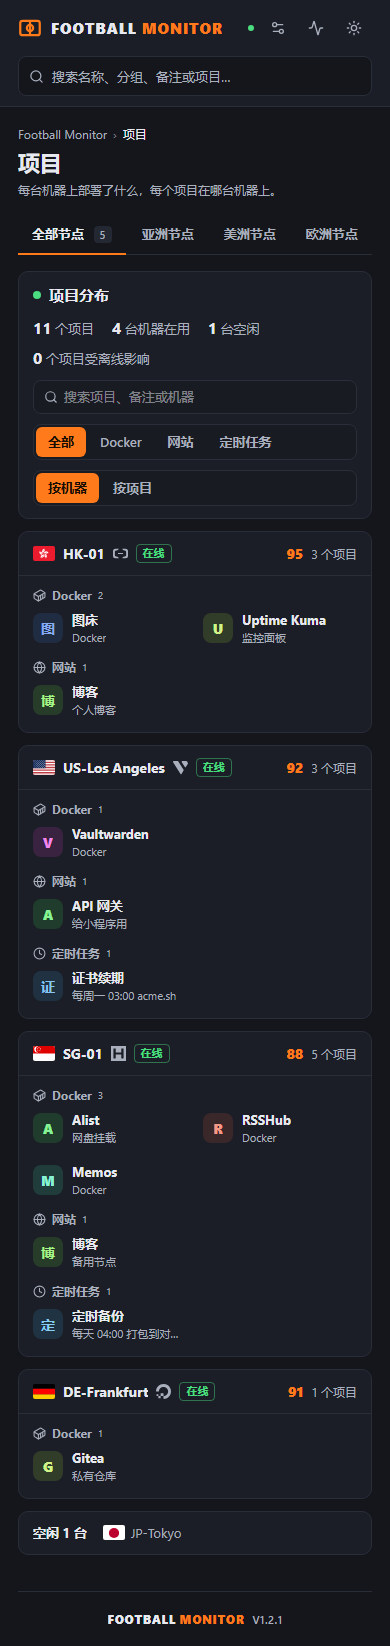
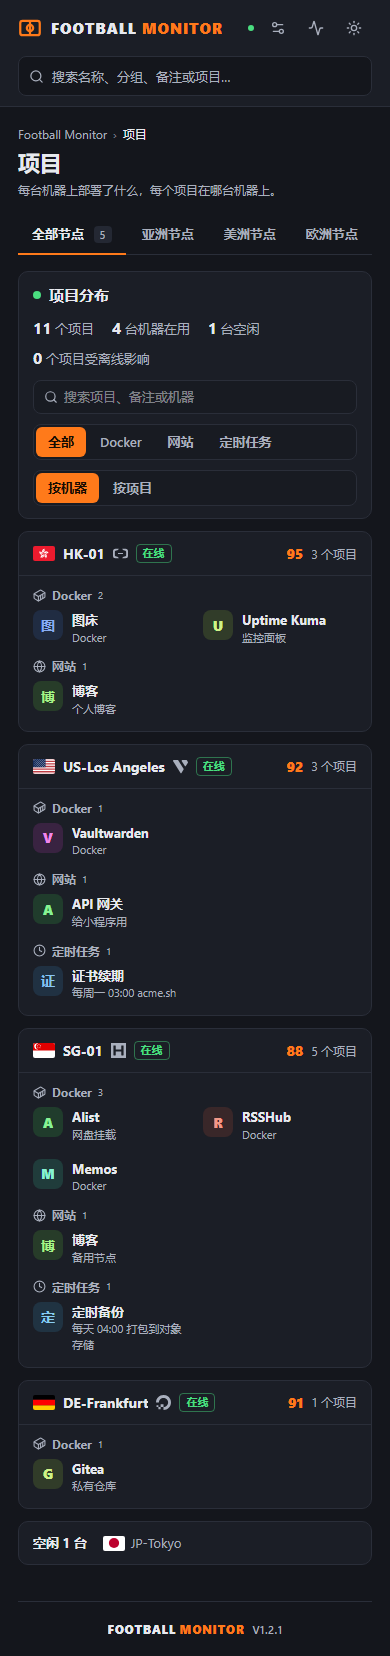
Tell the agent how to name a site and let project notes wrap

diff --git a/e2e/theme.spec.ts b/e2e/theme.spec.ts
@@ -732,6 +732,11 @@ test('projects page shows what runs where, by machine and by project, on desktop
   await page.locator('header .projects-link').click()
   await expect(page).toHaveURL(/\/projects$/)
   await expect(page.locator('.pj-machine')).toHaveCount(4)
+  // A note is read in full on a phone: it wraps instead of ending in an ellipsis.
+  const cut = await page
+    .locator('.pj-text small')
+    .evaluateAll((notes) => notes.filter((n) => n.scrollWidth > n.clientWidth).map((n) => n.textContent))
+  expect(cut, 'notes cut short at 390px').toEqual([])
   await page.screenshot({ path: `${shots}/projects-390.png`, fullPage: true })
 
   // The same projects on the node's own page, and a node found from the home page by what it runs.

diff --git a/tests/project-import.test.ts b/tests/project-import.test.ts
@@ -56,6 +56,14 @@ describe('the prompt for an SSH agent', () => {
     expect(PROJECT_PROMPT).toContain('不要输出域名、IP、端口')
     expect(PROJECT_PROMPT).toContain('20')
   })
+  it('says how to name a site without its domain, and refuses generic names', () => {
+    expect(PROJECT_PROMPT).toContain('反向代理到')
+    expect(PROJECT_PROMPT).toContain('<title>')
+    expect(PROJECT_PROMPT).toContain('根目录')
+    expect(PROJECT_PROMPT).toContain('子域名最前面')
+    expect(PROJECT_PROMPT).toContain('不要用“静态网站”“反向代理网站”这类笼统的名称')
+    expect(PROJECT_PROMPT).toContain('每个站点单独一项')
+  })
 })
 
 describe('reading what the agent answered', () => {

diff --git a/src/style.css b/src/style.css
@@ -2694,7 +2694,7 @@ svg {
 /* A project tile: shared by the projects page and the node page. */
 .pj-item {
   display: flex;
-  align-items: center;
+  align-items: flex-start;
   gap: 9px;
   min-width: 0;
   padding: 6px;
@@ -2723,11 +2723,15 @@ svg {
   flex-direction: column;
   min-width: 0;
 }
-.pj-text b,
-.pj-text small {
+.pj-text b {
   overflow: hidden;
   text-overflow: ellipsis;
   white-space: nowrap;
+}
+/* The note is read in full: it wraps rather than ending in an ellipsis. */
+.pj-text small {
+  overflow-wrap: anywhere;
+  line-height: 1.45;
 }
 .pj-text b {
   font-size: 13px;
